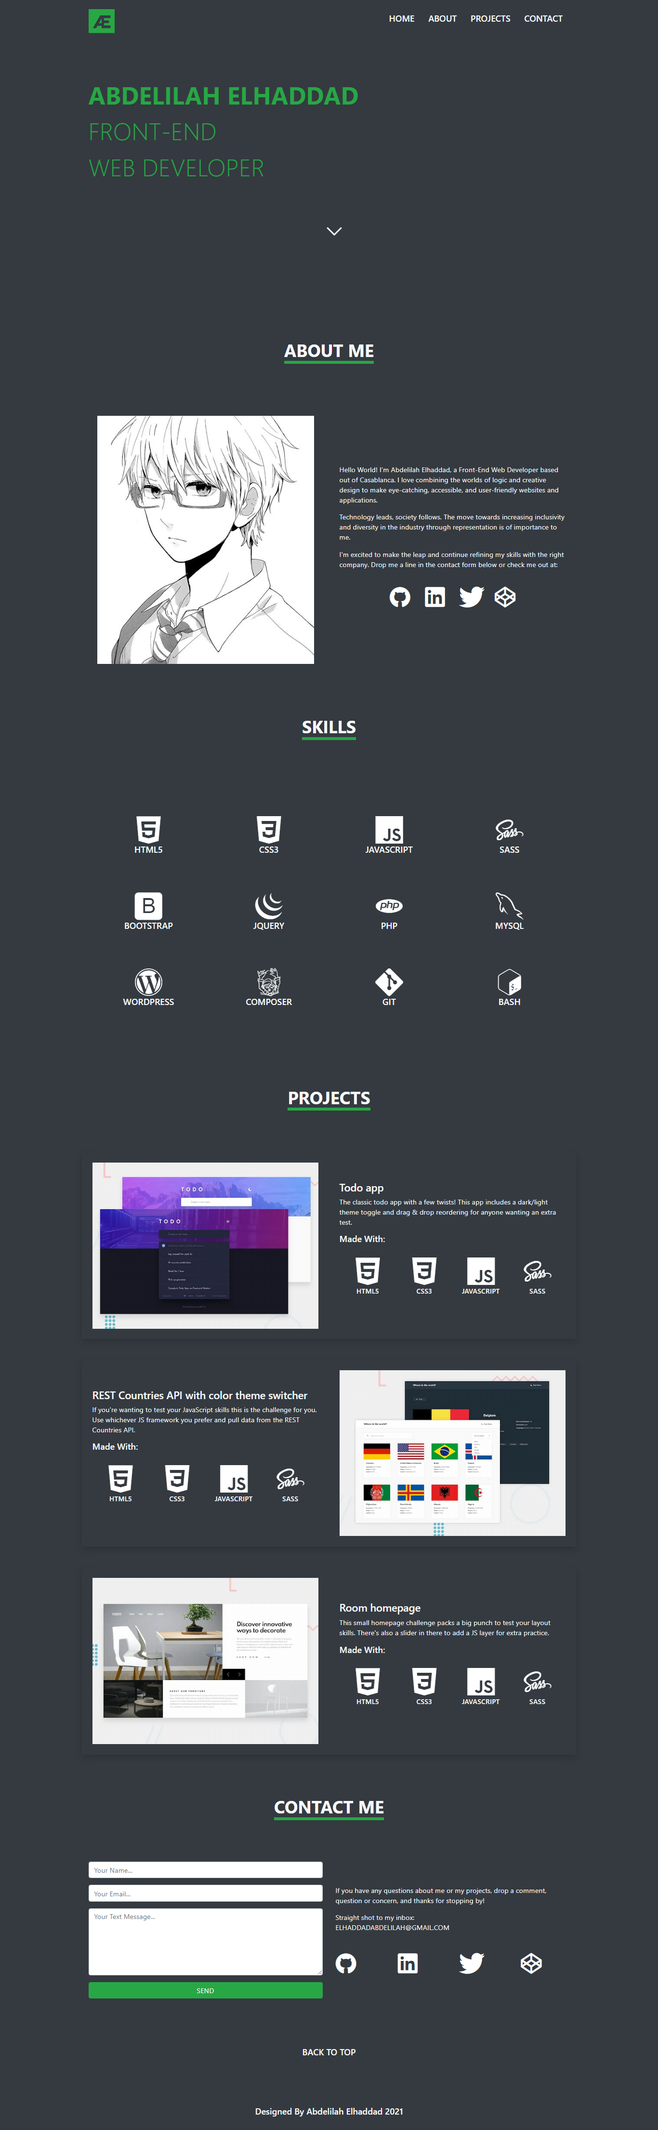
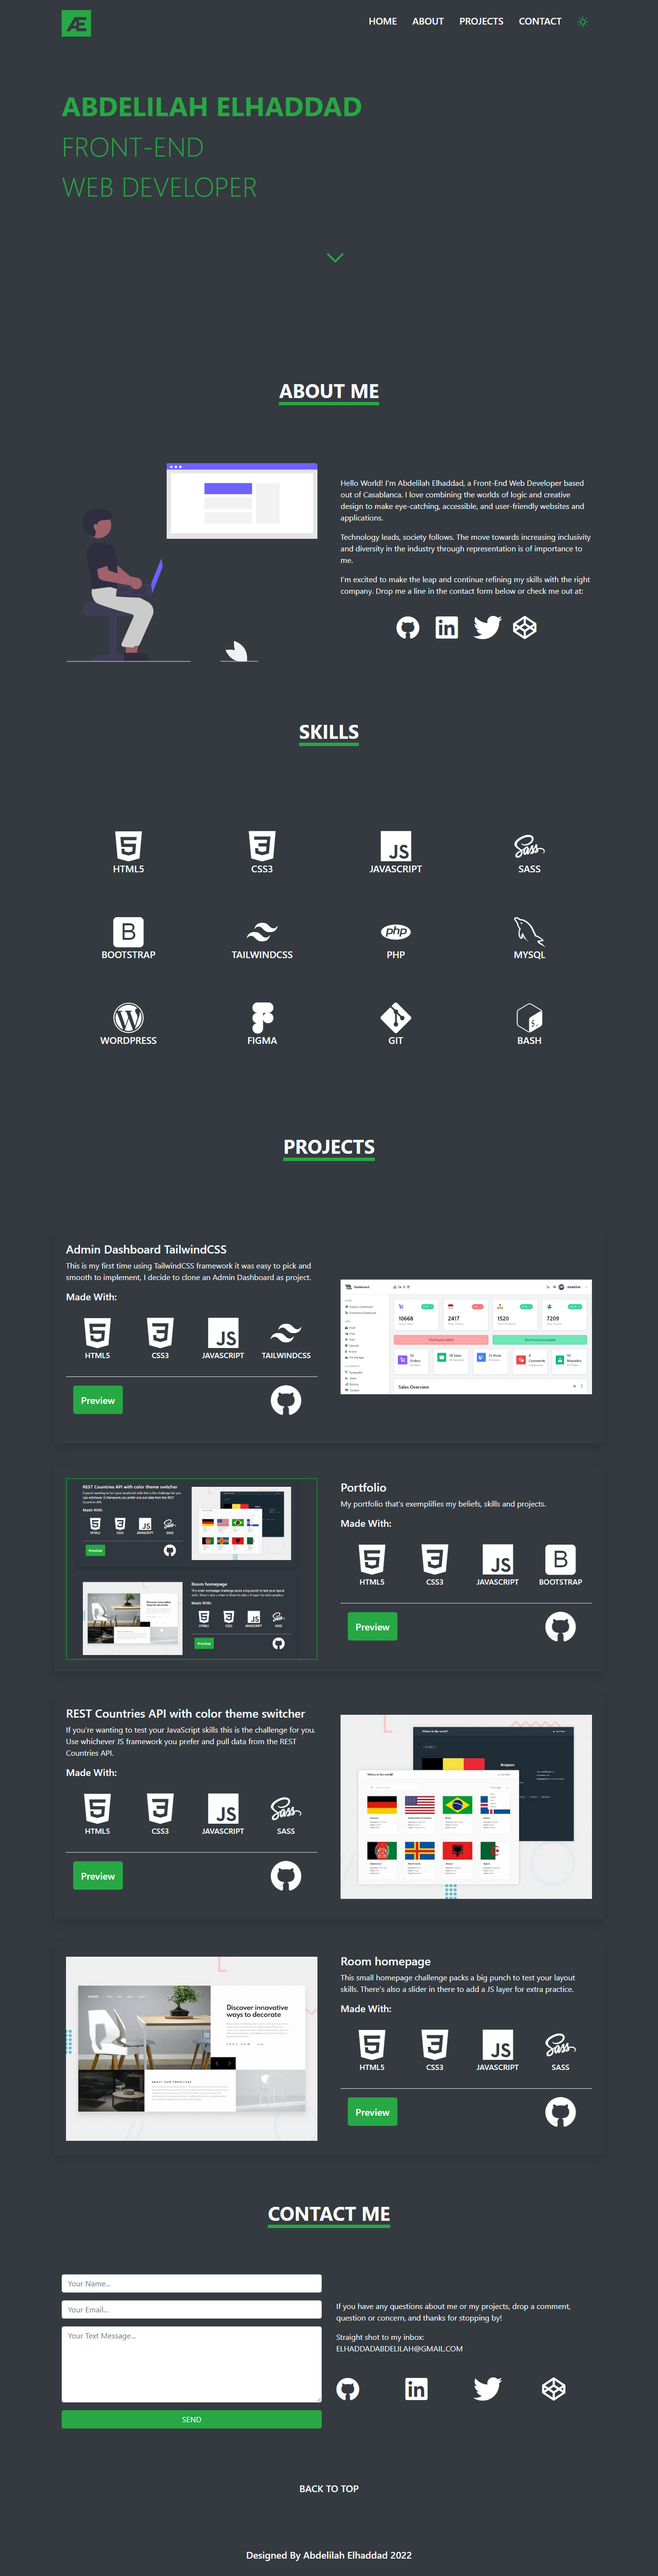
:iphone: :seedling: Dark Mode - Light Mode :sparkles: :iphone:

diff --git a/index.html b/index.html
@@ -174,7 +174,7 @@
           <h5>Made With:</h5>
           <ul class="row list-unstyled">
             <li class="col-3 text-center">
-              <a href="#"><i class="devicon-html5-plain"></i>
+              <a><i class="devicon-html5-plain"></i>
               </a>
               <span class="h6">HTML5</span>
             </li>
@@ -358,7 +358,7 @@
     </div>
   </section>
   <footer id="footer">
-    <p class="h5 text-center text-light">Designed By Abdelilah Elhaddad 2021</p>
+    <p class="h5 text-center text-light">Designed By Abdelilah Elhaddad 2022</p>
   </footer>
   <script src="https://code.jquery.com/jquery-3.5.1.slim.min.js"
     integrity="sha384-DfXdz2htPH0lsSSs5nCTpuj/zy4C+OGpamoFVy38MVBnE+IbbVYUew+OrCXaRkfj" crossorigin="anonymous">
